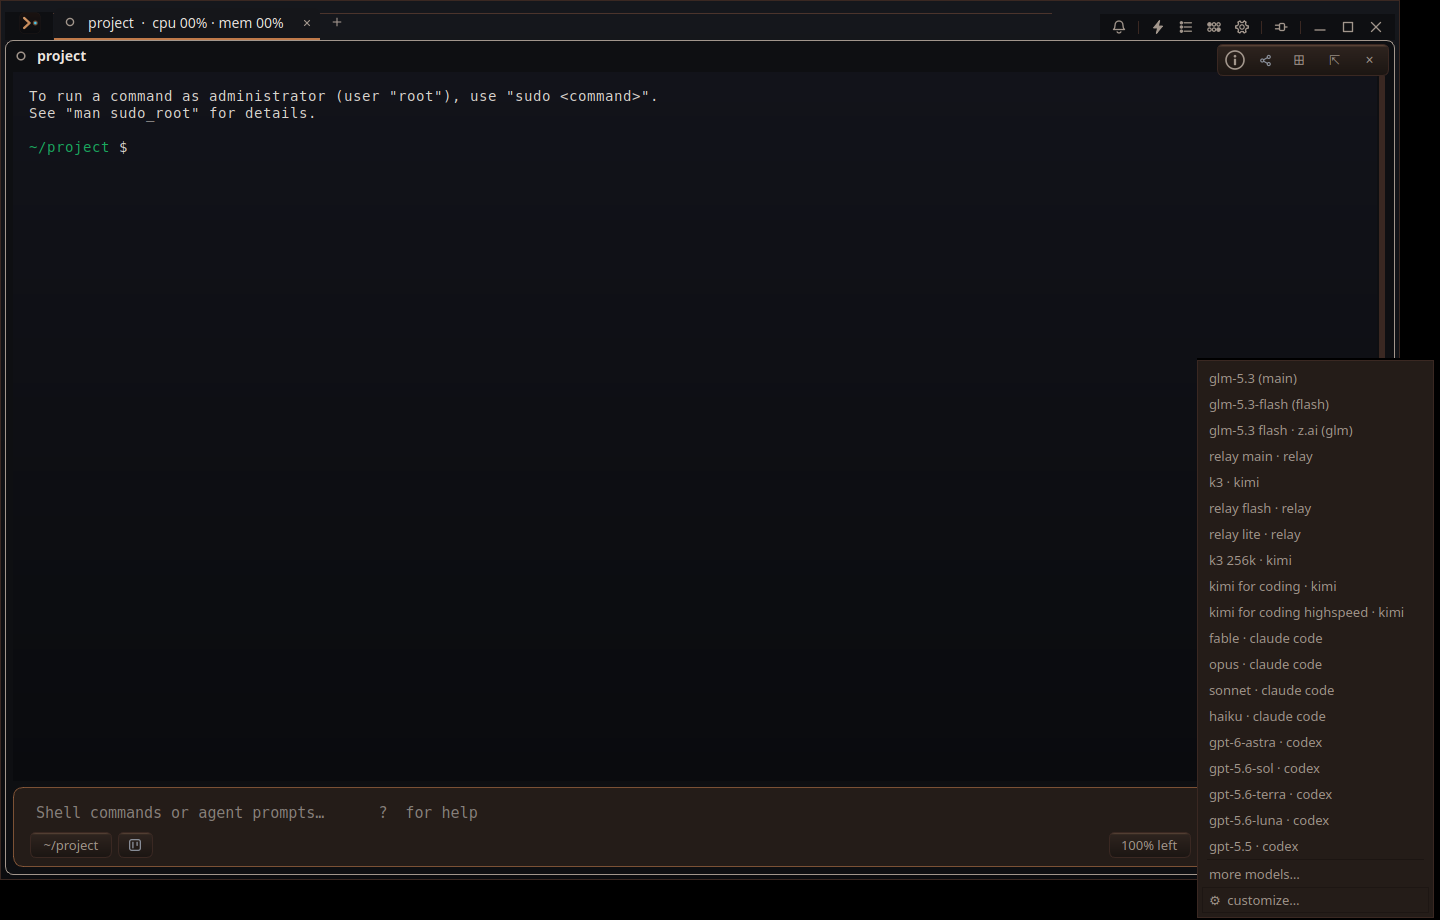
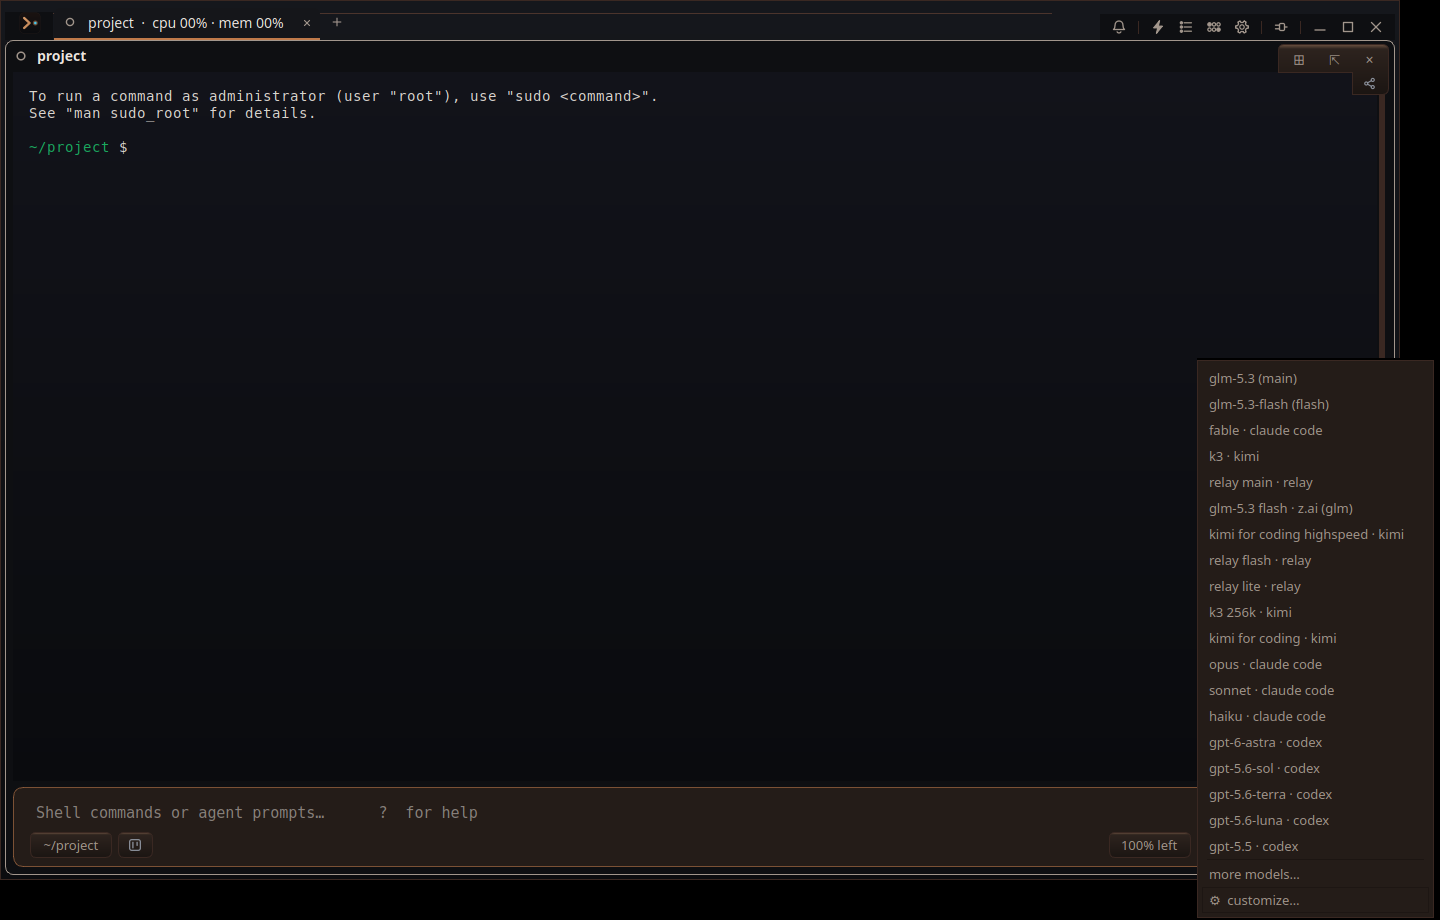
docs and evidence: the five tier lists on Options › Models, the chain a turn walks, the filled lists under Xvfb

Changed region(s): [[0.8438, 0.4565, 0.9688, 0.7], [0.8438, 0.0304, 0.9062, 0.0913], [0.9375, 0.0913, 0.9688, 0.1217]]

diff --git a/docs/ARCHITECTURE.md b/docs/ARCHITECTURE.md
@@ -1802,20 +1802,21 @@ measured, against 2.3–4.9 s for Gemini 3.8 Flash), so the Lite row must not mo
   reasoning unless `tiers.high` names a model. Plus the pane's model
   chip (role and effective model, all roles in its tooltip), "Flash agent for this pane"
   (`agent.flashAgent`, Alt+F) and the `/main` and `/flash` slash commands. The "New panes use the
-  Flash agent" row went on 2026-09-20 (owner: redundant next to the priority list); the setting
+  Flash agent" row went on 2026-09-20 (owner: redundant next to the tier lists); the setting
   `agent/panes_flash` is still read, off unless set by hand.
 - **The model catalog and the picker (owner, 2026-09-20).** `src/ModelCatalog.*`
   (`relay::models`, library `relay-modelcatalog`, `tests/modelcatalog_test.cpp`) turns the worker's
   preset rows — each carries `models`, the per-model catalog of `presets.py MODEL_CATALOG` — into
   one flat list of entries keyed `<preset>|<model>`, and keeps what the user said about them in
-  QSettings under `models/*`: shown, priority (rank 1 is Main and writes `provider/preset` +
-  `provider/model` for new panes; a movable line, `models/fallback_threshold` = how many models
-  are above it, makes every model above it after Main a fallback in order — they are kept as
-  `models/fallbacks` and sent as the ordered `fallbacks` request option, which is the whole
-  failover chain; `models/collapsed` folds a provider's group; `models/openrouter_fallback` is the
-  per-model opt-in sent as `failover_openrouter`, the model ids to continue on OpenRouter when
-  their own provider fails — off by default, per the owner: "you wouldn't want to start doing
-  gpt 6 calls at PAYG"), custom ids, favorites, recent, sort,
+  QSettings under `models/*`: shown; the five tier lists (`models/tier/<tier>`, owner, 2026-09-20
+  evening: main, high, flash, lite, local — each an ordered list of a model and the reasoning level
+  it runs at there, `curation::tierList`; rank 1 of main writes `provider/preset`, `provider/model`
+  and `agent/effort` for new panes, every entry after it is a fallback, and a model in no list is
+  only used when picked by hand; the lists go to the worker as `tiers: {tier: [entries]}` and the
+  two defaults it computes, `tier_list_defaults`, fill them — a fresh install takes the OpenRouter
+  one when that key is stored); `models/collapsed` folds a provider's group (the priority list, its
+  "fallbacks end here" line and the per-model "openrouter fallback" switch of earlier that day are
+  gone — an OpenRouter model is a list entry like any other); custom ids, favorites, recent, sort,
   a remembered reasoning level per entry, use counts and a tokens/s estimate. `src/ModelPicker.*`
   (`relay-modelpicker`, `tests/modelpicker_test.cpp`) is the dialog behind Ctrl+Alt+M
   (`agent.model`), `/model` alone and the box's "more models…": filter, sort menu, columns model ·
@@ -1824,7 +1825,7 @@ measured, against 2.3–4.9 s for Gemini 3.8 Flash), so the Lite row must not mo
   through `Pane::selectEntry(key, effort)`, which is `selectModel(preset, model)` plus the level;
   `/swap` toggles between rank 1 and rank 2 (#DC4J). Options › Models (`RelayWindow::modelsSection`)
   is the one page: providers and keys (through the pane's `storeKey` / `testKey` / `removeKey`),
-  the per-provider checklist with "add a model by id", the priority list, the defaults; it replaced
+  the per-provider checklist with "add a model by id", the five tier lists, the defaults; it replaced
   the API keys and Model roles doors and the "Claude Code and Codex" page (a guest's permission
   posture sits under its models). Labels are lower-case throughout, per the owner.
 - **Usage limits and an exhausted subscription (owner, 2026-09-20).** `Catalog.limits` (one
@@ -1841,7 +1842,7 @@ measured, against 2.3–4.9 s for Gemini 3.8 Flash), so the Lite row must not mo
   the shown list minus exhausted presets, so the next live entry takes the place — which is what
   `/swap` and `models/fallbacks` (the worker's chain) use; the picker's row stays, greyed
   (`QPalette::Disabled`, "left" = "0% · resets 14:30"), still selectable; the model box says " ·
-  exhausted"; the priority list's detail says "exhausted · resets tue · skipped". Every change
+  exhausted"; a tier list's row says "skipped" with the reset time in its hover. Every change
   redraws the box, notifies `SettingsWatch` (the providers' status line), re-sends the chain when
   the exhausted set changed, and arms a single-shot timer for the nearest reset so the row comes
   back by itself. `applyMainDefault` still writes rank 1 itself as the new-pane default.
@@ -1897,11 +1898,13 @@ measured, against 2.3–4.9 s for Gemini 3.8 Flash), so the Lite row must not mo
   the history to the new provider's dialect and follows its context window, and the restore, before
   the turn's terminal event, puts all of it back, so the pane keeps the model the user chose; if the
   chain ends in failure the turn reports the *first* provider's error, not the last one's. Options ›
-  Models can turn it off (`agent/failover`). **The chain is the priority list** (owner, 2026-09-20):
-  the models above the "fallbacks end here" line, in order, as the `fallbacks` option, and nothing
-  else (the worker's `failover_openrouter` twin step is still there but the GUI sends no ids). Relay
-  Free is a fallback only when it sits above the line, which replaced the `failover_hosted` switch
-  of 2026-09-19 (still accepted from older GUIs and ignored).
+  Models can turn it off (`agent/failover`). **The chain is the list the turn is on** (owner,
+  2026-09-20): a Main turn walks the main list from the entry after the pane's model, or from the
+  top for a model picked by hand; a plan turn walks the high list, then drops to the pane's own
+  model and the main list; side calls walk their tier's list (`tiers` as lists, protocol §13.7 and
+  §15.2.2). Relay Free is a fallback only where a list names it, which replaced the
+  `failover_hosted` switch of 2026-09-19 (still accepted from older GUIs and ignored); `fallbacks`
+  is accepted as the main chain only when no `tiers.main` list was sent.
   **Subagents fail over on the pane's chain**: `subagents.py` hands each one the pane's role
   resolver, its preset and both switches, which it did not before — without a resolver
   `_begin_failover` cannot know which presets are keyed and refuses every move. **A routed step —

diff --git a/README.md b/README.md
@@ -66,10 +66,14 @@ that conflict.
    bottom of the model box). The page reads top to bottom the way it is set up: **providers** —
    add key… for one of them (or Actions › API keys… to **Import from Warp** or **from Claude Code /
    Codex**; **test** checks the key reaches the provider) — then **models in the picker**, a
-   checklist of each provider's models, then **priority**: rank 1 is Main, what new panes start
-   on; the models above the line after it are the fallbacks, in order — an OpenRouter model
-   ranked there is how "the same model on OpenRouter" is done. Claude Code and Codex, when
-   installed, are providers there like any other.
+   checklist of each provider's models, then five ordered lists — **main, high, flash, lite and
+   local models**. Each row is a model and the reasoning level it runs at there, in the provider's
+   own words (xhigh on a GPT row, max on a GLM row). The first of a list is what that tier runs
+   on: main for new panes, high for plan mode, flash for terminal driving and quick side calls,
+   lite for chores, local for `/local`. The rest are that tier's fallbacks, in order, and a model
+   in no list is only used when you pick it by hand. "fill the lists" applies Relay's defaults,
+   or the recommended ones with the cheaper OpenRouter twins after your own models. Claude Code
+   and Codex, when installed, are providers there like any other.
 2. Type `git status` and press Enter. It runs in the terminal.
 3. Type `why is this build failing?` and press Enter. The agent answers inline.
 

diff --git a/docs/qa_evidence/2026-09-20-models-page-and-picker/NOTES.md b/docs/qa_evidence/2026-09-20-models-page-and-picker/NOTES.md
@@ -11,7 +11,7 @@ no prompt is ever submitted. `drive.sh [build-dir]` reproduces every shot.
 | implementer-d-picker-sort.png | the sort menu open (priority, a to z, intelligence, speed, most used, subscription left) |
 | implementer-e-options.png | `/models`: Options › Models — the providers group: only providers with a key (ordered by intelligence), Relay Free, OpenRouter always, Claude Code and Codex with `change login` / `test`; the rest behind `+ add provider` |
 | implementer-g-options-checklist.png | the checklist group: one checkbox per provider ("3 of 3 models in the picker"; off hides all and folds the group), the models indented under it; the small "openrouter fallback" switch appears under a model only once an OpenRouter key is stored (none in this profile) |
-| implementer-h-options-priority.png | the priority group: ranks with ↑ ↓, "main" and "fallback 1 · /swap goes here", and the movable "fallbacks end here" line after rank 2 |
+| implementer-h-options-priority.png | the tier lists (evening): main models filled from the worker's defaults — fable · claude code at max, glm-5.3 at high, k3 at high, relay main at medium — then high models at max, flash at low; each row a grip, the level in the provider's words, and × |
 | implementer-f-options-down.png | the same page at the end of the priority list (↑ ↓ per row, reset) and the defaults group |
 
 Seen and left as is: the box shows every model of every usable provider until the user un-checks
